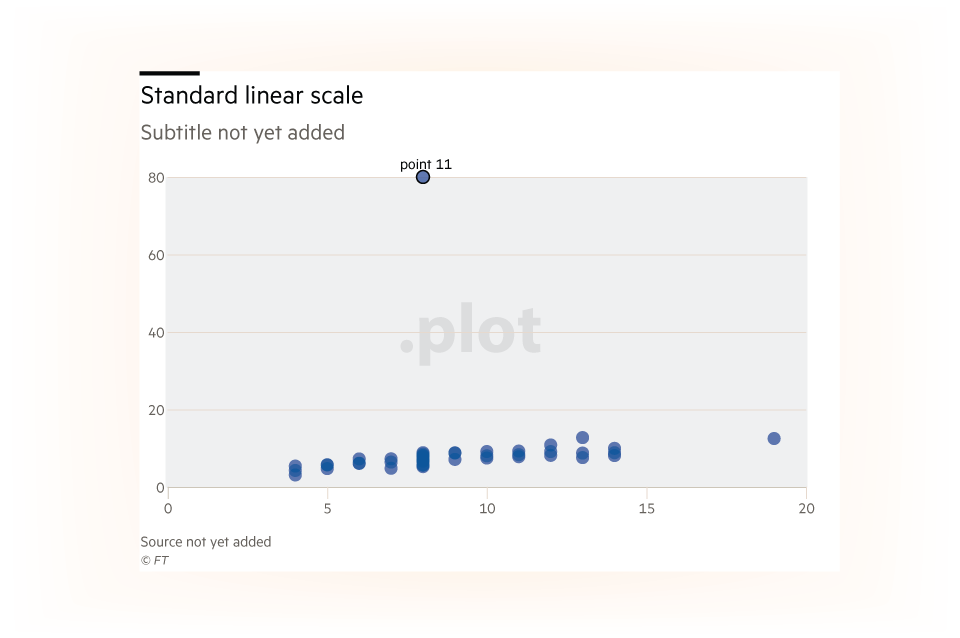
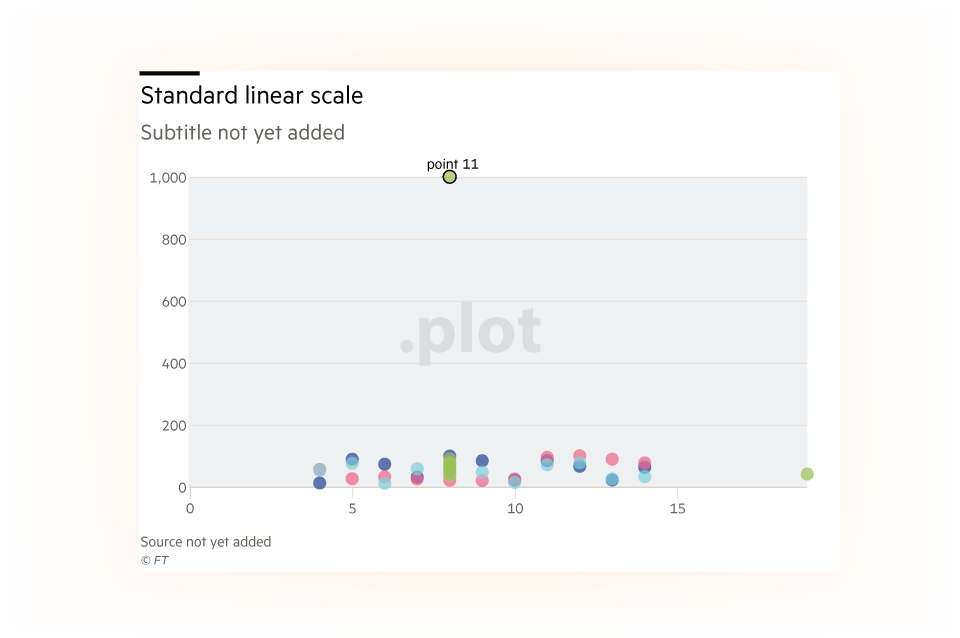
Additional logScale image and information on ReadMe

diff --git a/README.md b/README.md
@@ -195,7 +195,7 @@ yAxis
 #### <a id='ylineardivisor'>myAxis.divisor([Number]</a>
 Used to help format ticks values whane the data range contains large number e.g. GDP where the figures could be measured in millions or billions. The tick label figure is divided by the number passed to the divisor, by default this is set to 1 so appears to make no difference. On an axis where the figures are measured in millions 0 - 2,000,000 setting the divisor to 1,000,000 would cause the axis labels to appear as 0 - 9.0.
 
-<b>Note </b> It is veru important to make he appropriate addition to the subtitle of the chart when the divisor has a value other that 1 e.g. adding the text 'million'
+<b>Note </b> It is very important to make he appropriate addition to the subtitle of the chart when the divisor has a value other that 1 e.g. adding the text 'million'
 
 Without using a divisor the chart would be labelled like this:
 ![alt tag](https://github.com/ft-interactive/g-axis/blob/master/images/yLinear-divisorBefore.png)
@@ -285,8 +285,18 @@ yAxis
 Used to return the width of the text on the axis tick. Will vary depending on tick e.g. a label of '1,000,000' will be wider than a label of '10' and will return a higher value. See [yLinear Postioning](#ylinpos)
 
 #### <a id='ylinearnLog'>myAxis.logScale([Boolean])</a>
-Logscales are a nonlinear scale used when there is a large range in the dataset, commonly used in earthquakes or to minimise clustering when the data contains statistical outlayers e.g. Point 11 on the chart below is a statistical outlayer. All the other data on the chart is grouped between 0 and 20, so whn it is projected using a standard non linear scale, it is difficult to see the information.
+Logscales are a nonlinear scale used when there is a large range in the dataset, commonly used in earthquakes or to minimise clustering when the data contains statistical outlayers e.g. Point 11 on the chart below. All the other data on the chart is grouped between 0 and 100, so when it is projected using a standard non linear scale, it is difficult to see the information.
 ![alt tag](https://github.com/ft-interactive/g-axis/blob/master/images/yLinear-linearScale.png)
+
+Using a log scale disperses some of the clustering and makes the data easier to read, but still shows the outlaying point 11.
+
+<b>Note </b>That logScales cannot start from zero so the yMin value of your chart will probably have to be changed. Here it was set to 10. Its also worth checking the data when you have extreeme values.
+```
+yAxis
+    .logscale(logScale)
+```
+![alt tag](https://github.com/ft-interactive/g-axis/blob/master/images/yLinear-logScale.png)
+
 
 #### <a id='ylinearnumTicks'>myAxis.numTicks([Number])</a>
 As they name suggest defines how many ticks are on the axis. 0 to 200 with 3 tick would give a zero line, a 100 and 200 line.If not enough ticks have been specifiesd d3 will automatically increase the number.
